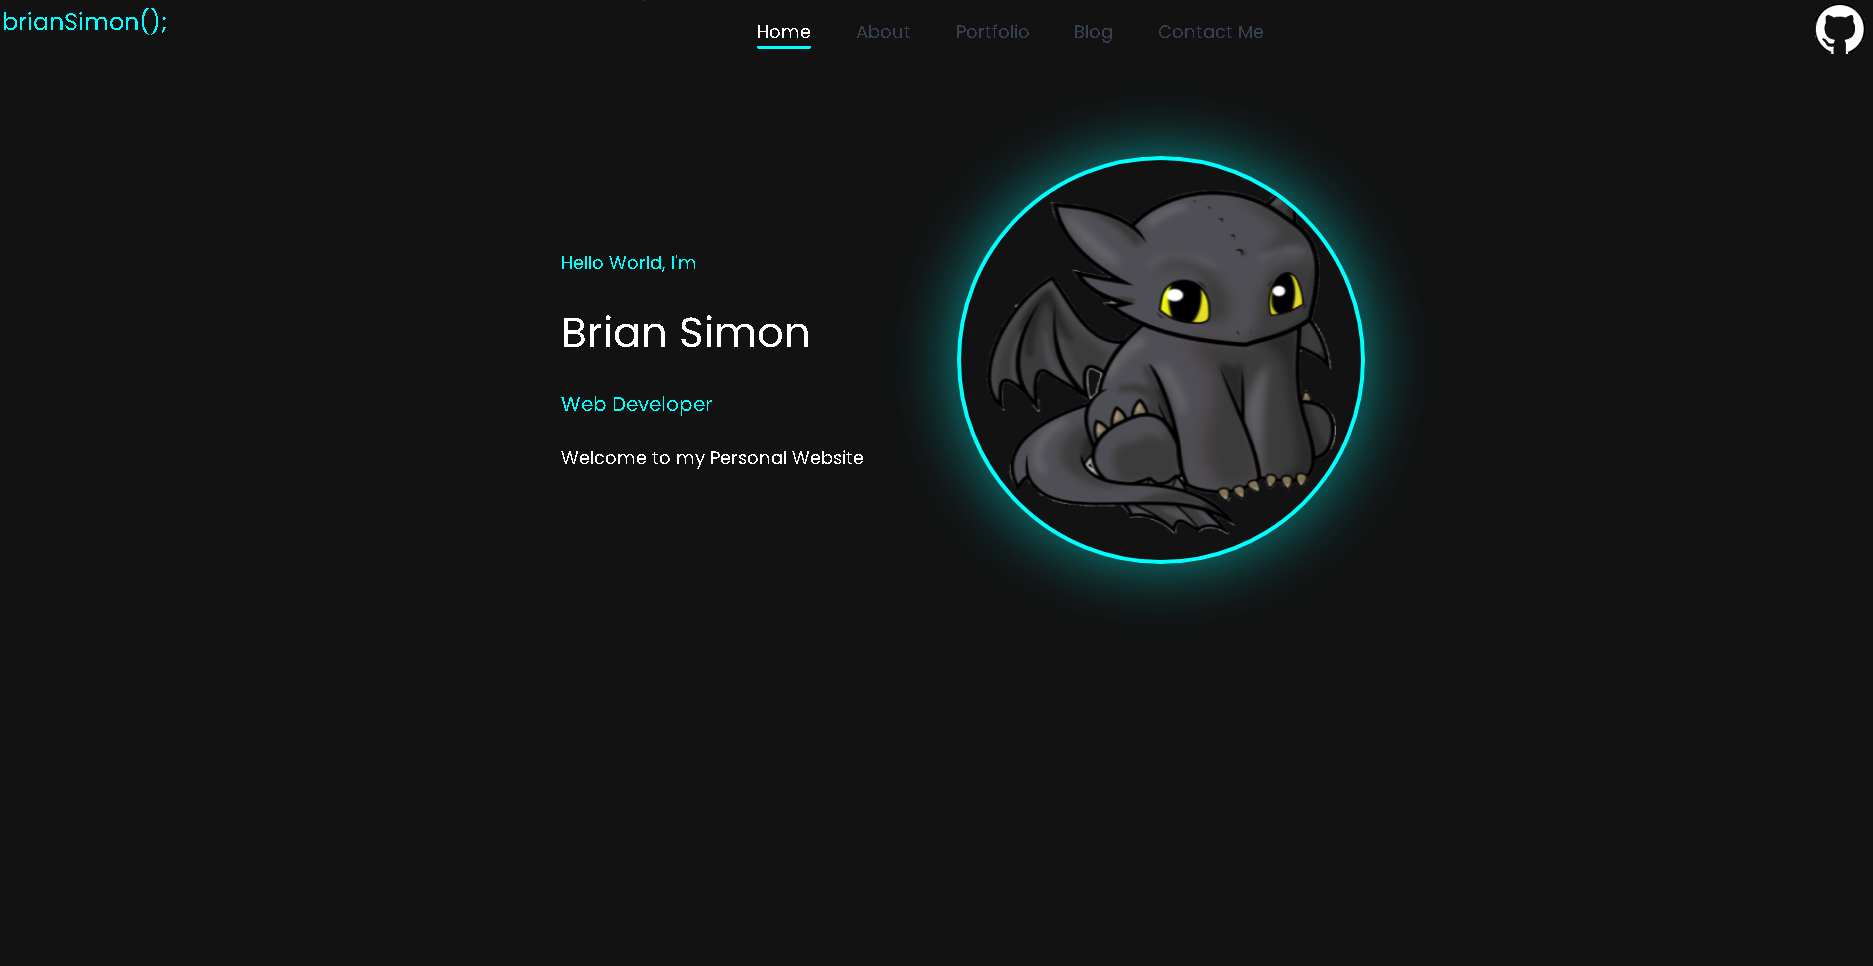
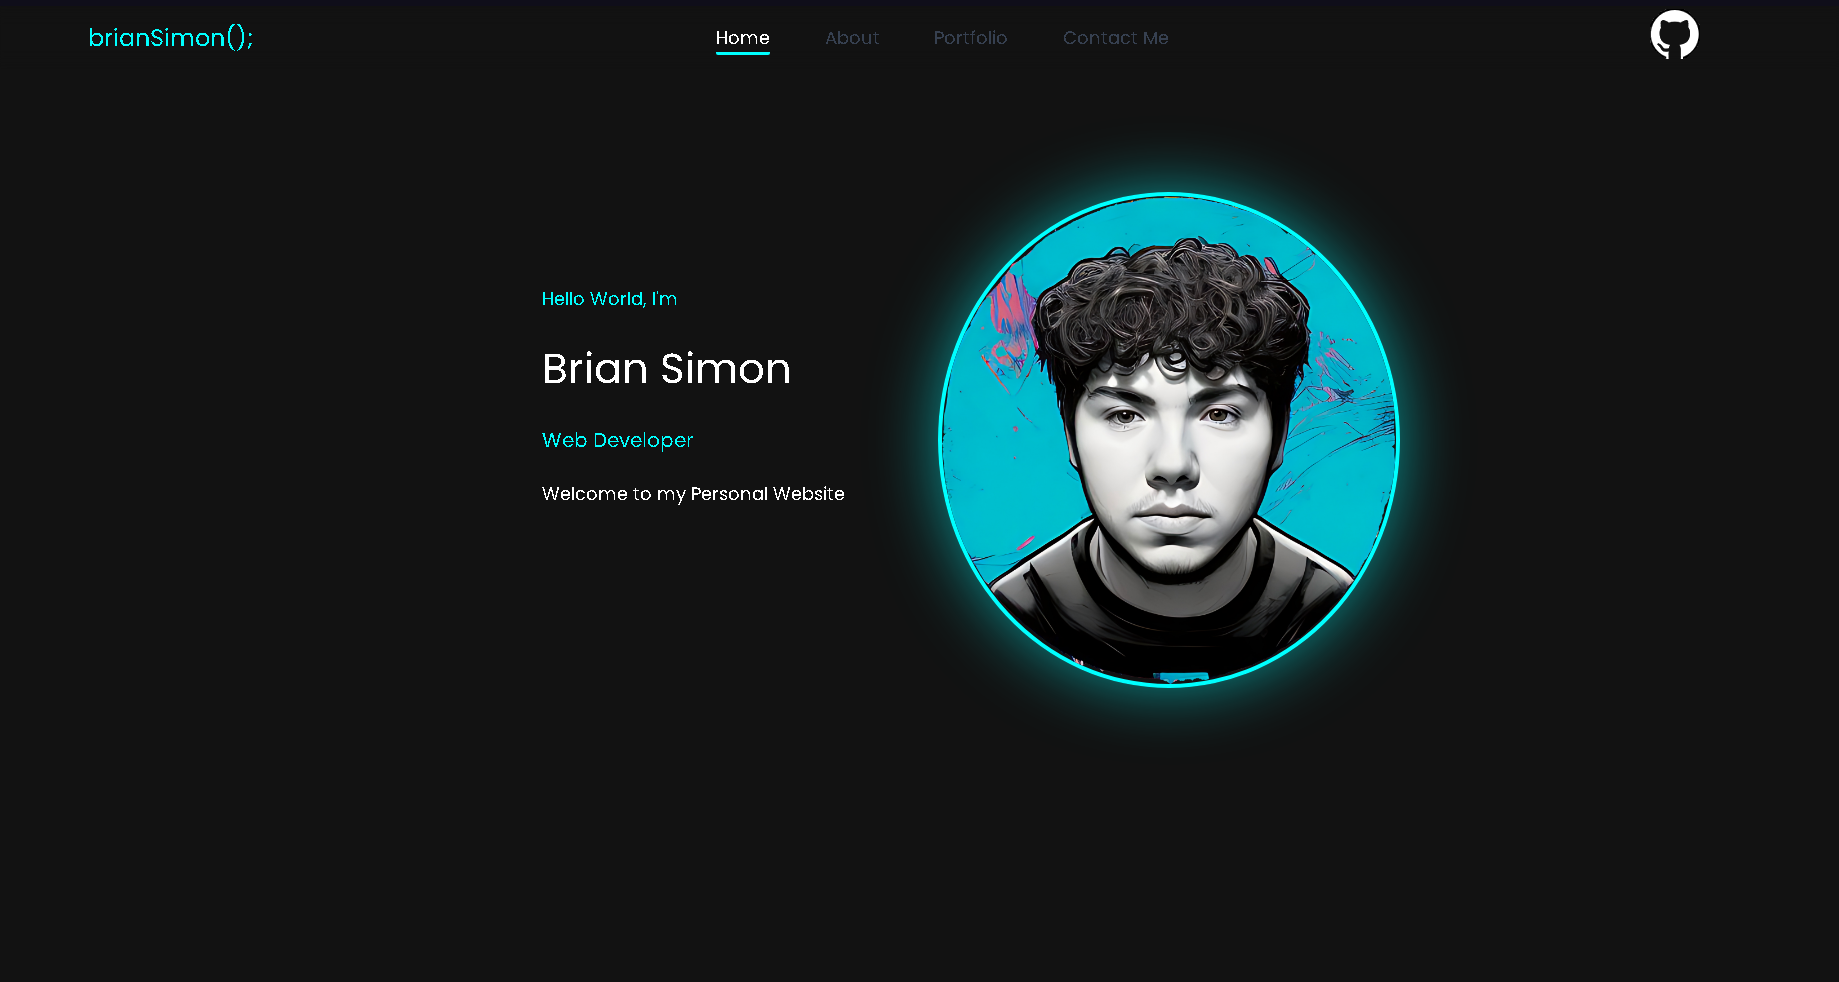
Homepage Mobile support complete, Ai portrait placed

diff --git a/HTML/aboutme.html b/HTML/aboutme.html
@@ -34,7 +34,7 @@
 
   <div class="middle-line">
     <div class="middle-line-content">
-      <div class="toothless2container"><img class="toothless2" width="350px" height="350px" src="../IMAGES/toothless.png"></div>
+      <div class="toothless2container"><img class="toothless2" width="350px" height="350px" src="../IMAGES/aiportrait.png"></div>
       <div class="about-me-words"> <p> &ensp; Hello. My name is Brian Simon. I am an upcoming Web Developer and Software Engineer currently attending the University of Pittsburgh.
         I really enjoy what I am doing, and I am super excited to gather more experience. </p>  </div>
     </div>

diff --git a/index.html b/index.html
@@ -46,7 +46,7 @@
             </div>
 
             <div class="middle-picture">
-                <img  class="toothless" src="IMAGES/toothless.png">
+                <img  class="toothless" src="IMAGES/aiportrait.png">
             </div>
             <div class="-mobile-title-words">
                 <div class="mobilewordsbox">
